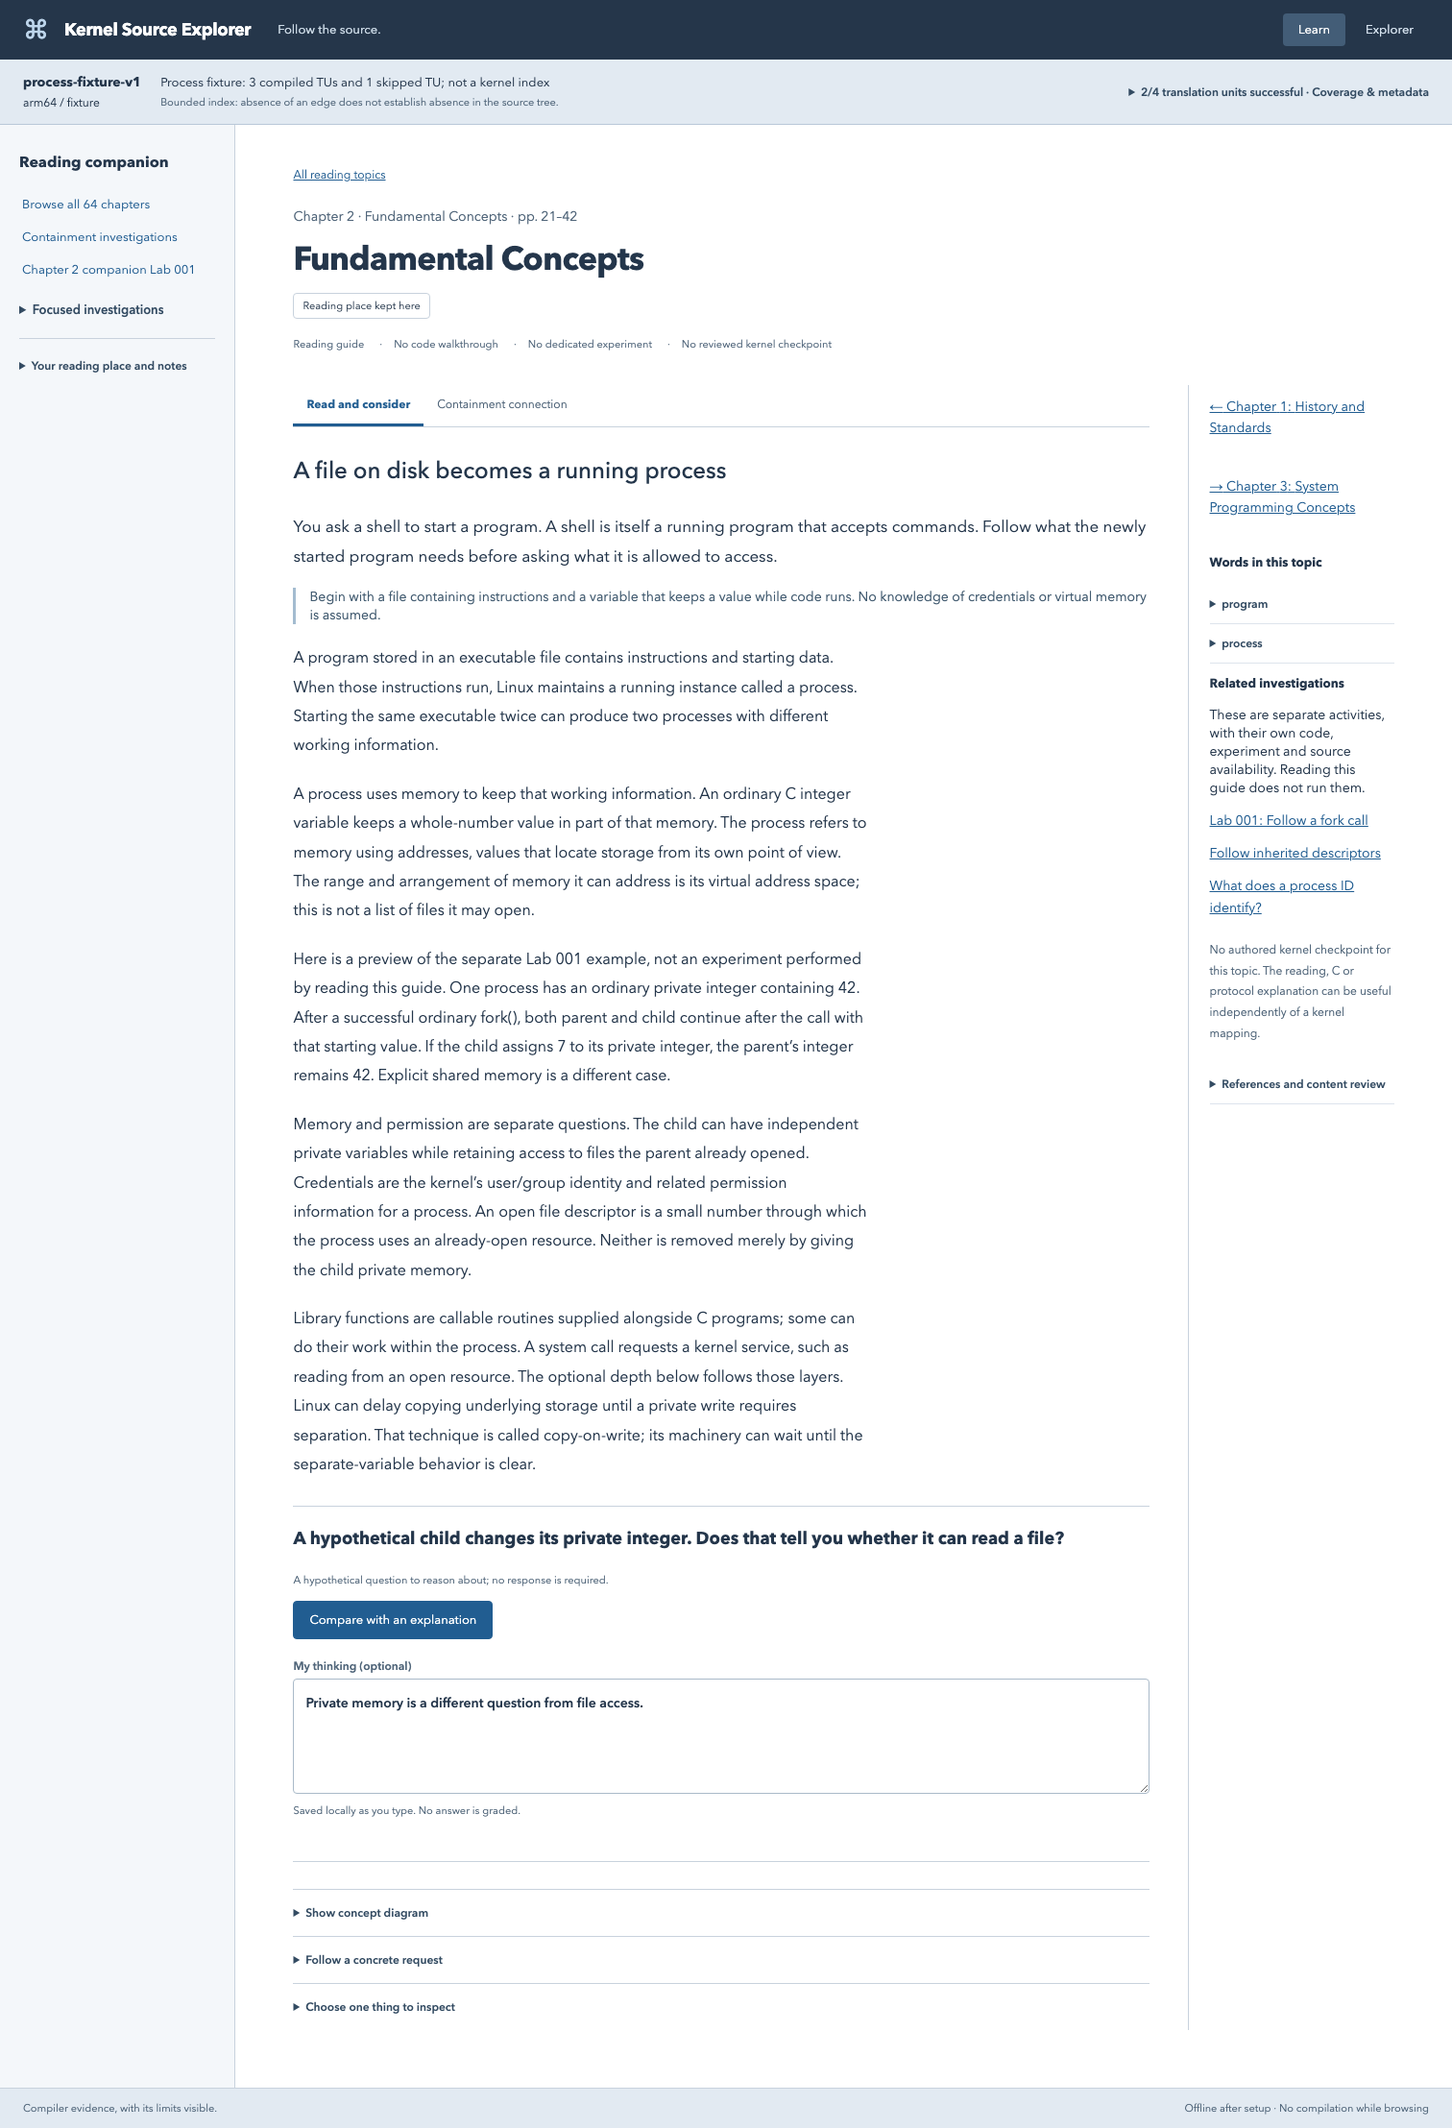
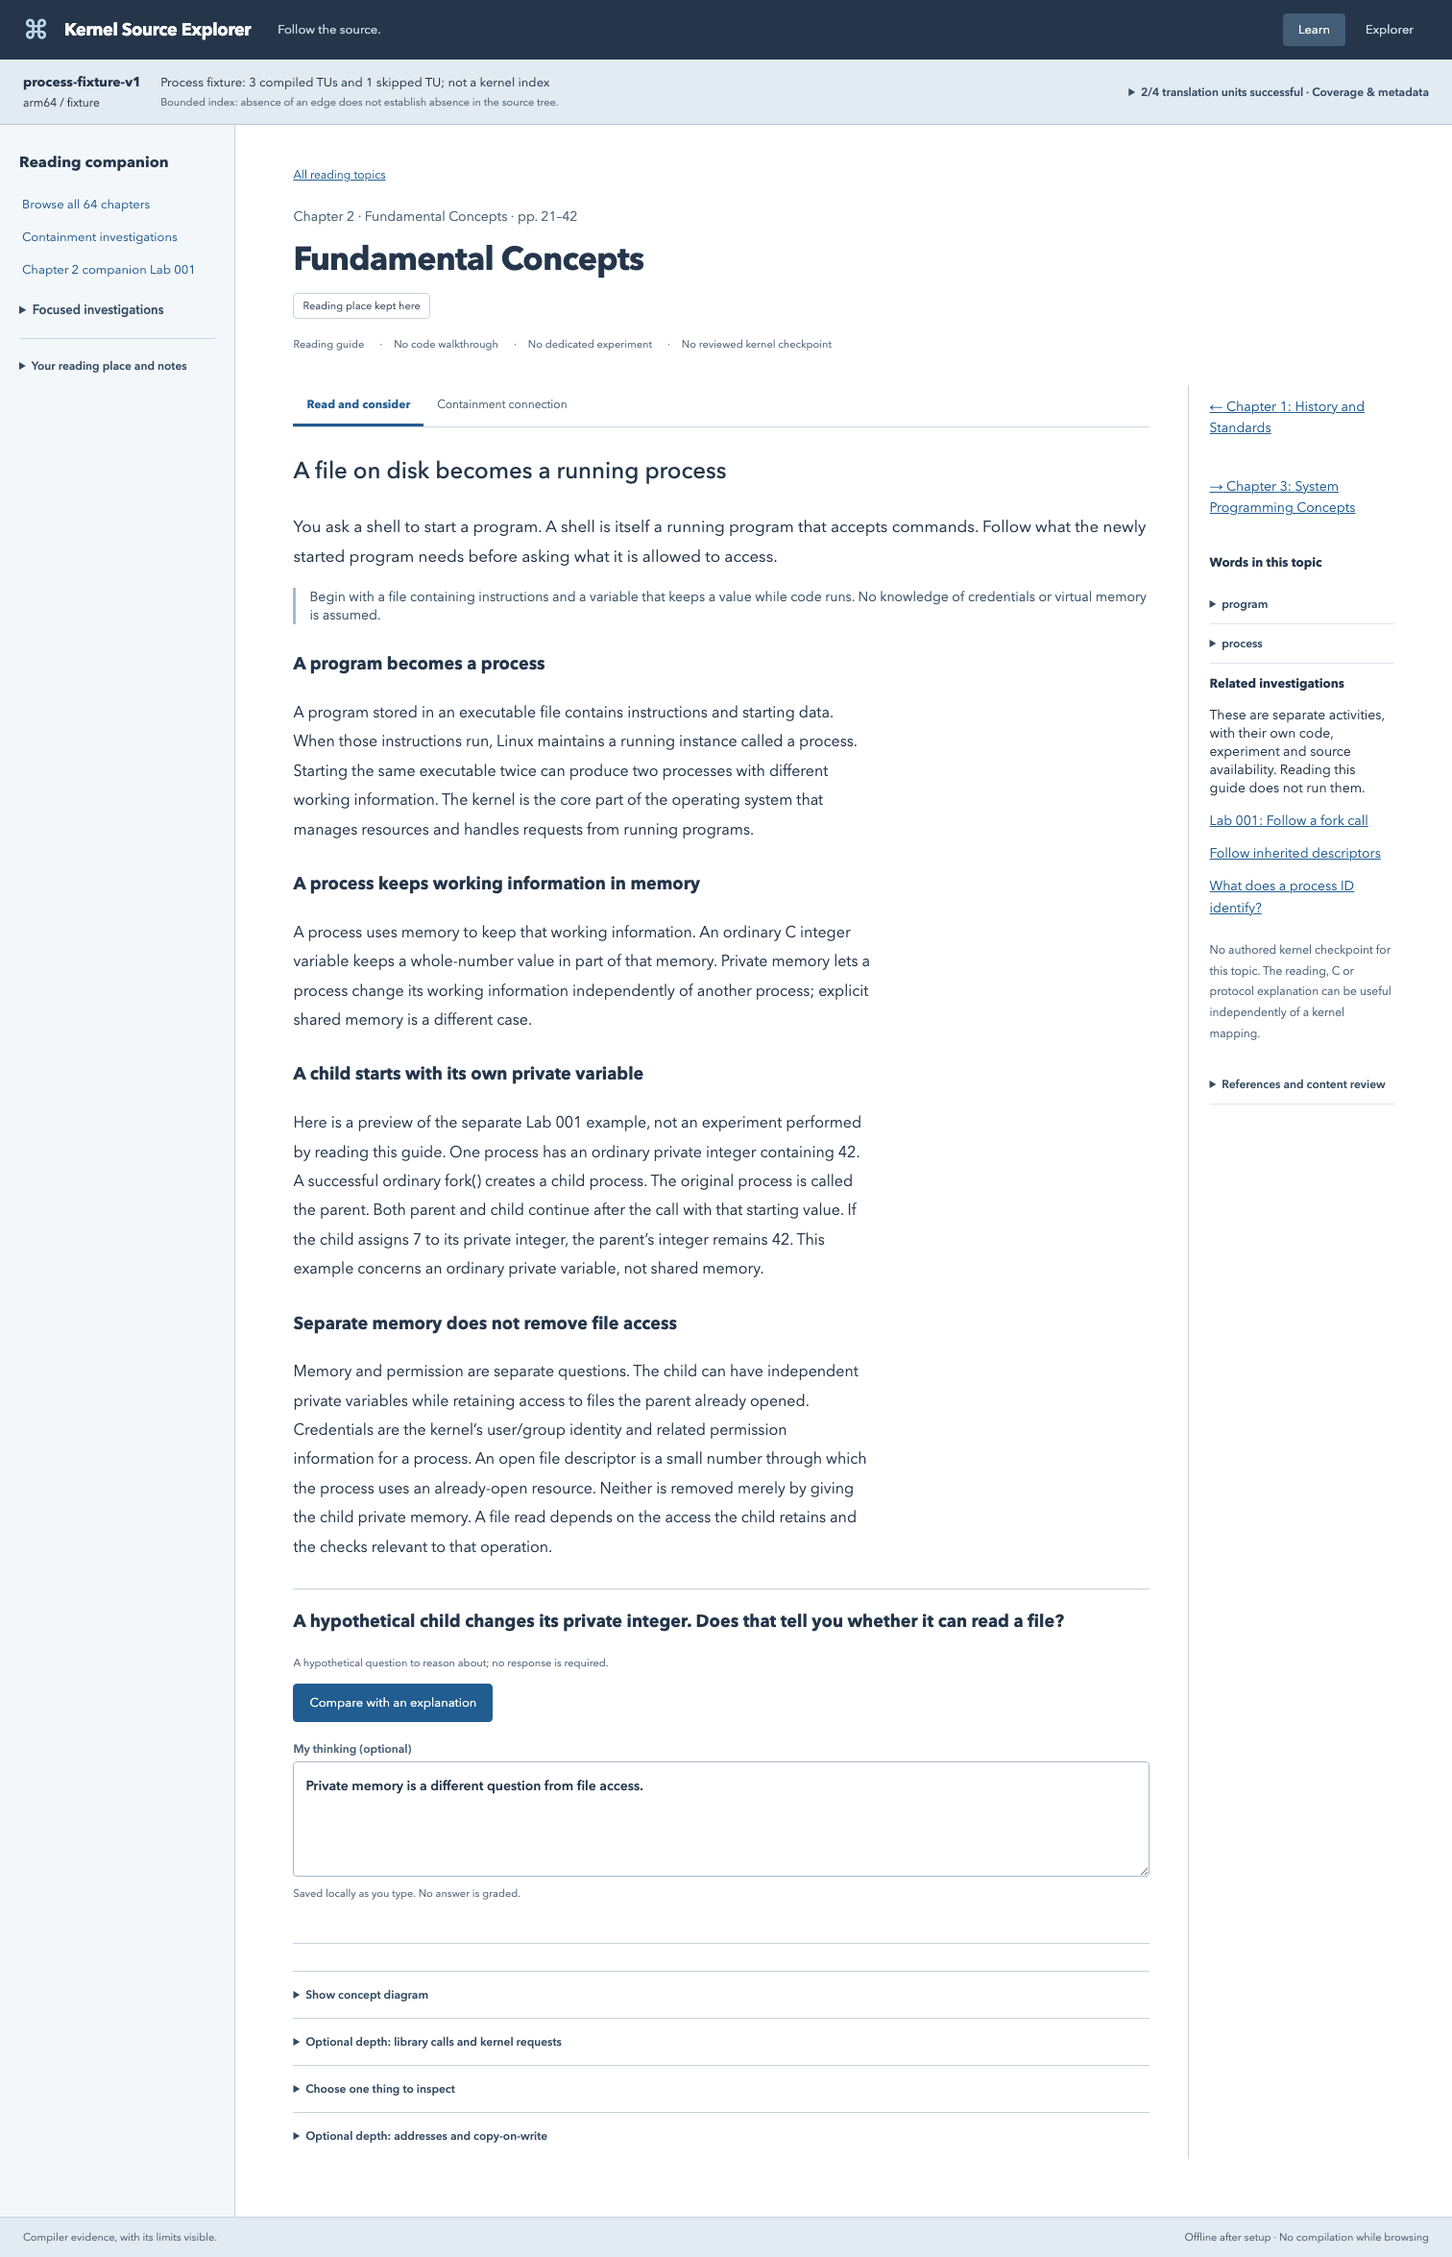
Clarify process, signal, and condition-wait reading guides

Changed region(s): [[0.0, 0.0, 1.0, 0.8096], [0.8393, 0.1868, 0.9636, 0.4982], [0.1865, 0.8718, 0.373, 0.9653]]

diff --git a/web/e2e/reading-guides.spec.ts b/web/e2e/reading-guides.spec.ts
@@ -197,3 +197,50 @@ test("narrow enlarged reading and code keep keyboard disclosures and history usa
   await page.goBack();
   await expect(page.locator(".topic-header h1")).toHaveText("Pseudoterminals");
 });
+
+test("staged reading keeps deeper mechanisms optional and supports plain guides without headings", async ({ page }) => {
+  for (const width of [1512, 390]) {
+    await page.setViewportSize({ width, height: 982 });
+    for (const n of [2, 20, 30, 4]) {
+      await page.goto(`/#learn/chapter-${String(n).padStart(2, "0")}`);
+      await expect(page.locator(".topic-header h1")).toBeFocused();
+      await page.evaluate((narrow) => { document.body.style.zoom = narrow ? "1.5" : "1"; }, width === 390);
+      const main = page.getByLabel("Chapter explanation");
+      await expect(main).toBeVisible();
+      await expect(page.locator(".chapter-concept[open]")).toHaveCount(0);
+      await expect(page.locator(".authored-explanation")).toHaveCount(0);
+      if (n === 2) {
+        // Protect paragraph-to-heading association, not an editorial word count.
+        const stages = await main.locator("h3").evaluateAll((headings) =>
+          headings.map((h) => ({ title: h.textContent, paragraph: h.nextElementSibling?.textContent })),
+        );
+        expect(stages[0].paragraph).toContain("The kernel is the core part");
+        expect(stages[2].paragraph).toContain("creates a child process");
+        expect(stages[3].paragraph).toContain("retaining access to files");
+        await expect(main).not.toContainText("copy-on-write");
+        await expect(page.getByText("Optional depth: addresses and copy-on-write", { exact: true })).toBeVisible();
+      } else {
+        await expect(main.locator("h3")).toHaveCount(0);
+      }
+      await main.screenshot({ path: test.info().outputPath(`chapter-${n}-${width}-main.png`) });
+      await page.getByRole("button", { name: "Compare with an explanation", exact: true }).focus();
+      await page.keyboard.press("Enter");
+      await expect(page.locator(".authored-explanation")).toBeVisible();
+      if (n === 30) {
+        await expect(page.locator(".chapter-reflection h3")).toContainText("separately starts waiting");
+        await expect(page.locator(".authored-explanation")).toContainText("after the consumer unlocks but before");
+      }
+      for (const summary of await page.locator(".chapter-concept > summary").all()) {
+        await summary.focus();
+        await page.keyboard.press("Enter");
+        await expect(summary.locator("..")).toHaveAttribute("open", "");
+        await summary.locator("..").screenshot({ path: test.info().outputPath(`chapter-${n}-${width}-optional-${await summary.textContent()}.png`) });
+        await page.keyboard.press("Enter");
+        await expect(summary.locator("..")).not.toHaveAttribute("open");
+      }
+      await page.getByRole("button", { name: "Hide explanation", exact: true }).focus();
+      await page.keyboard.press("Enter");
+      expect(await page.evaluate(() => document.documentElement.scrollWidth <= innerWidth)).toBeTruthy();
+    }
+  }
+});

diff --git a/web/src/ChapterReading.tsx b/web/src/ChapterReading.tsx
@@ -1,3 +1,4 @@
+import { Fragment } from "react";
 import type { Concept, Topic, TopicNotes } from "./learningTypes";
 import { ConceptFlow } from "./ConceptFlow";
 
@@ -90,7 +91,12 @@ export function ChapterReading({
       <p className="chapter-prerequisite">{topic.orientation!.prerequisite}</p>
       <div className="chapter-main" aria-label="Chapter explanation">
         {topic.explanation.map((p, i) => (
-          <p key={i}>{p}</p>
+          <Fragment key={i}>
+            {topic.explanation_headings?.[i] && (
+              <h3>{topic.explanation_headings[i]}</h3>
+            )}
+            <p>{p}</p>
+          </Fragment>
         ))}
       </div>
       <div className="chapter-reflection">

diff --git a/web/src/learning.css b/web/src/learning.css
@@ -21,6 +21,7 @@
 .chapter-reading .chapter-situation { font-size: 17px; line-height: 1.8; }
 .chapter-prerequisite { color: #435c71; border-left: 3px solid #a4bcd0; padding-left: 14px; }
 .chapter-main { max-width: 74ch; }
+.chapter-main h3 { font-size: 18px; line-height: 1.6; margin: 28px 0 10px; }
 .chapter-main p { font-size: 16px; line-height: 1.9; margin: 20px 0; }
 .chapter-reflection { margin-block: 28px; padding-block: 20px; border-block: 1px solid var(--border); }
 .chapter-reflection h3 { font-size: 18px; line-height: 1.6; }

diff --git a/web/src/learningTypes.ts b/web/src/learningTypes.ts
@@ -124,6 +124,7 @@ export type Topic = {
   summary: string;
   prompt: string;
   explanation: string[];
+  explanation_headings?: string[];
   follow_up: string;
   boundary: string;
   terms: string[];

diff --git a/tests/test_learning.py b/tests/test_learning.py
@@ -164,6 +164,9 @@ def test_chapter_depth_and_flagged_diagram_semantics():
     content = curriculum()
     for chapter in content['chapters']:
         assert chapter['concepts']
+        if 'explanation_headings' in chapter:
+            assert len(chapter['explanation_headings']) == len(chapter['explanation'])
+            assert all(isinstance(h, str) and h for h in chapter['explanation_headings'])
         assert not any(c['title']=='Trace the mechanism before choosing a boundary' for c in chapter['concepts'])
         assert all(c['explanation'] not in chapter['explanation'] for c in chapter['concepts'])
         assert len(chapter['terms']) >= 2

diff --git a/docs/CURRICULUM_READING_REVIEW.md b/docs/CURRICULUM_READING_REVIEW.md
@@ -113,3 +113,25 @@ Enlarged-phone review also caught wrapped diagram labels exceeding fixed-height 
 A disclosure-state bug found in review was corrected: newly selected chapters now mount fresh optional disclosures rather than inheriting the previous chapter's open diagram. Existing per-topic notes and explicit saved positions remain separate. An intermediate test run raced a frontend rebuild and encountered a transient missing asset; the suites were rerun against the settled build. Tests were also updated to check relevant search matches rather than an obsolete exact hit count, and hidden diagrams rather than absence of their markup. All automated and manual browser review uses isolated state and generic profiles; personal notes are not used. Editorial review covers all 64 guides. Browser checks protect presentation, labels and continuity; counts/rendering assertions do not establish teaching quality. No novice participant study is claimed.
 
 The guides still expect some practice with C expressions and programs, particularly in optional fragments. They introduce the local syntax that matters, but do not replace a full C course. Complete reading examples and fragments have not been newly executed; the separate nine canonical investigations retain their existing validation reports. No new Linux runtime experiment, compiler indexing, source coverage, containment mechanism or model service was added. Reading guides still have no dedicated experiment or reviewed kernel checkpoint of their own. The existing pinned Linux source is static compiler evidence; earlier runtime reports remain historical.
+
+## Focused follow-up: Chapters 2, 20 and 30 (2026-10-17)
+
+This local follow-up preserves the 64-guide revision and changes only these three chapter records. No chapter IDs, pages, availability, related-activity links, diagram models, canonical experiments, Explorer annotations or saved-state formats change.
+
+- **Chapter 2:** defines the kernel in the first stage and says explicitly that successful fork creates a child before describing where both processes continue. Four visible subheadings separate executable/process, working memory, the private-integer preview and retained file access. Addresses/virtual address spaces and copy-on-write move into an optional concept; the existing library-call concept now defines library functions and system calls there. The Lab 001 preview remains explicitly hypothetical/separate, and the main path still distinguishes private-variable independence from file permissions without opening anything. Explicit shared memory remains an exception.
+- **Chapter 20:** starts with Ctrl+C, introduces the foreground group as the processes selected to interact with the terminal, then explains SIGINT's default termination and permitted alternatives. Generation, delivery, disposition and per-thread blocking follow that concrete event. The pending example is scoped to one thread and a nonignored signal. Optional concepts explain multithreaded targeting and ISIG/VINTR terminal settings, with links to Chapters 34 and 62. The rule that SIGKILL/SIGSTOP cannot be caught, blocked or ignored and standard-signal coalescing remain visible. The diagram's narrower ignored-versus-nonignored cases remain unchanged.
+- **Chapter 30:** both the main explanation and reflection name the faulty check → unlock → separately wait sequence. The optional answer locates the producer's operation between unlock and wait, then explains the coordinated condition-wait contract. Predicate rechecking is a separate requirement; neither a wakeup nor the loop reserves an item, and the loop does not repair the faulty gap. The labeled C fragment and its explicit initialization/error-handling omissions are unchanged.
+
+The additive `explanation_headings` array supplies a heading immediately before its corresponding main paragraph. Chapter 2 alone uses it. Other chapters continue rendering their existing string paragraphs without headings; there is no new tab, required step, persistent flag or learner-data migration.
+
+Primary-contract review used [fork](https://man7.org/linux/man-pages/man2/fork.2.html), [terminal input settings](https://man7.org/linux/man-pages/man3/termios.3.html), [signal behavior](https://man7.org/linux/man-pages/man7/signal.7.html) and [condition waiting](https://man7.org/linux/man-pages/man3/pthread_cond_wait.3p.html). These support authored explanations; they are not newly measured runtime results or source checkpoints.
+
+Validation for this follow-up:
+
+- TypeScript/Vite build passed; the existing bundle-size warning remains (~763 kB raw / 241 kB gzip). No dependency added.
+- 32 Python checks passed, including alignment of optional headings with paragraphs. An initial run raced the build's replacement of the assets directory; it was rerun after the build finished.
+- 37 fixture/learning browser checks passed. The new journey reads Chapters 2, 20 and 30 plus unaffected Chapter 4 with optional content closed, opens/closes explanations by keyboard, checks heading/paragraph association and optional-depth separation, and captures actual renders at desktop 1512×982 and phone 390×982 with 150% zoom. Existing notes/bookmarks, import/recovery, history, focus, source navigation and code consistency regressions also passed. The new test was corrected to close its own reflection reveal between desktop and phone visits; existing per-topic reveal behavior is preserved.
+- 10 pinned-kernel-index browser journeys passed, including the existing two-checkpoint memory path, full-definition detours, C return, paging, refresh and history. This is static Linux 7.2.11 arm64 source evidence, not execution on Linux.
+- Native Chrome review on a separate generic-profile local origin read the main explanations, Chapter 2's relocated depth, Chapter 20's targeting/configuration qualifications, and Chapter 30's answer and fragment context. Unaffected Chapter 4 was spot-checked. Personal notes were neither imported nor edited. The temporary tab was closed after review.
+
+Editorial judgment: each main account supplies the reasoning needed for its reflection. Optional depth adds mechanisms/contrasts instead of supplying missing essential definitions. Advanced C, full job-control rules, signal-handler safety and the full copy-on-write implementation still require the linked later material. No beginner participant test, Linux runtime execution or new kernel indexing is claimed. Browser coverage is Chromium/Chrome, not Safari or Firefox. Existing Node/anyio deprecation warnings remain. This follow-up is uncommitted and unpushed at handoff.

diff --git a/docs/LEARNING.md b/docs/LEARNING.md
@@ -170,3 +170,5 @@ Use a concrete situation → plain account → technical name → chapter connec
 A diagram supplies `question` and `relationships` before the drawing, and meaningful edge labels in the accessible text representation. Preserve object-reference arrows, alternatives, loops and state transitions where they fit; do not turn every topic into a call chain. Optional code requires `code_kind`, `code_context` and `code_syntax` before the illustration. State the actual missing setup/error handling, identify complete examples versus fragments/pseudocode, and never imply a reading illustration ran.
 
 Review the meaning of every main-path sentence, glossary term, concept assumption/counterexample, reflection and relationship. Check prerequisite order, not word counts. Inspect rendered examples from early/middle/late chapters, keyboard and enlarged/narrow layouts. See [the complete editorial record and limits](CURRICULUM_READING_REVIEW.md).
+
+A guide may add `explanation_headings`, aligned one-for-one with its `explanation` paragraphs, when visible stages help the reader. These are plain subheadings immediately above the corresponding paragraph; the field is optional and does not change older guides or saved data. Keep necessary definitions in those stages and move implementation layers into existing optional concepts. A reflection about a faulty method must spell out that method rather than silently switching away from the correct approach just explained. For condition waiting, distinguish the coordinated release/wait contract from the separate predicate-recheck requirement. See the focused follow-up in [the reading review](CURRICULUM_READING_REVIEW.md#focused-follow-up-chapters-2-20-and-30-2026-10-17).

diff --git a/docs/VALIDATION.md b/docs/VALIDATION.md
@@ -93,3 +93,5 @@ See [MEMORY_JOURNEY_PASS.md](MEMORY_JOURNEY_PASS.md) for the focused handoff and
 ## All-chapter newcomer reading revision (2026-10-17)
 
 See [CURRICULUM_READING_REVIEW.md](CURRICULUM_READING_REVIEW.md) for the 64-row editorial record, before/after decisions, primary-reference checks, rendered review, test results and limits. Chapters now expose the central explanation before optional reflection; the nine developed investigations retain prediction-first views. Code context and evidence availability remain distinct. New regressions protect the reading schema, labeled illustrations, legacy containment routes, notes and saved-position continuity, and keyboard/narrow/enlarged disclosure behavior. This is editorial and functional validation, not beginner participant testing or new C/Linux runtime execution.
+
+The focused Chapters 2/20/30 follow-up adds optional paragraph headings and a keyboard/desktop/enlarged-phone regression, with Chapter 4 as the compatible fallback. Its separate results, source-contract references, editorial review and limits are recorded in [the reading-review follow-up](CURRICULUM_READING_REVIEW.md#focused-follow-up-chapters-2-20-and-30-2026-10-17). No Linux runtime rerun or novice participant study is implied.
